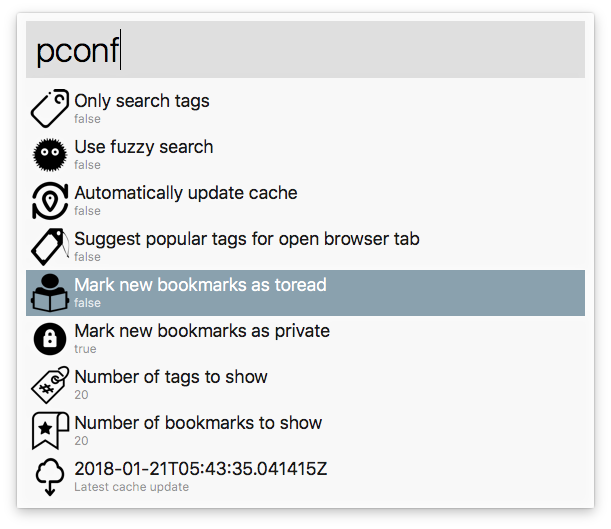
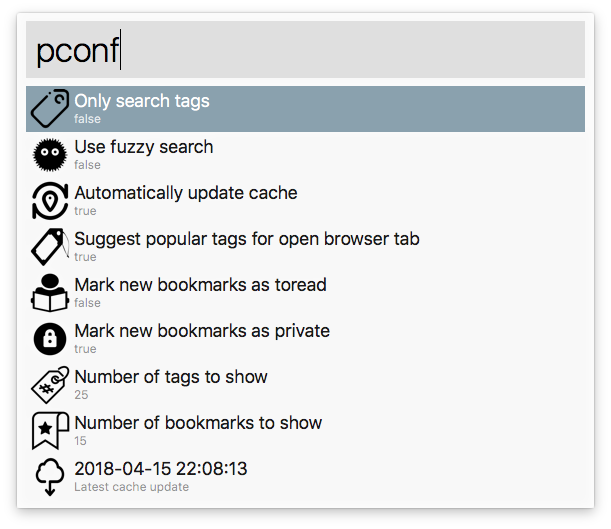
Update README.md

diff --git a/README.md b/README.md
@@ -43,11 +43,7 @@ Then invoke Alfred and enter your username:token after the ***"pa"*** keyword:
 
 ![image](./res/images/authentication.png)
 
-This workflow will keep a local cache of the tags and bookmarks that you have in Pinboard.
-
-To manually update the cache, you need to issue the ***`pu`*** command:
-
-![image](./res/images/update.png)
+This workflow will keep a local cache of the tags and bookmarks that you have in Pinboard, and, by default, automatically update the cache. (See [manual updates](#cache_update) )
 
 ---
 
@@ -92,7 +88,7 @@ Searching your bookmarks is easy.
 ps query1 query2 query3 ...
 ```
 
-Workflow will use the text you enter in Alfred and show list of bookmarks that contain **all** of the search keywords in any of the bookmarks information (Desrciption of bookmark, its tags and url and its extended notes, search fields can be adjusted, see [settings](#config).
+Workflow will use the text you enter in Alfred and show list of bookmarks that contain **all** of the search keywords in any of the bookmarks information (Desrciption of bookmark, its tags, its url and its extended notes). However, these search fields can be adjusted, see [settings](#config).
 
 So **the more** search keywords you enter **the less** results will be displayed as it tries to find the bookmarks that contain ***all*** of the keywords.
 
@@ -117,7 +113,7 @@ You can hold down modifiers to enable different behavior:
 pind
 ```
 
-To delete a bookmark, just make sure it is opened in your current broweser's window. Then use `pind`.
+To delete a bookmark, just make sure it is opened in your current browser's window. Then use `pind`.
 Proposed workflow for deleting a bookmark is to first open it in browser (search for it using this workflow's keyword `ps`, and hit enter) and then use `pind` keyword followed by enter.
 
 ![image](./res/images/delete-pin.png)
@@ -142,6 +138,14 @@ On top of using `pconf`, you can directly type following commands to also adjust
 - `pset auto`: After posting a new bookmark, automatically update the local cache.
 - `pset tags`: Set number of tags to show: `pset tags 25`
 - `pset bookmarks`: Set number of bookmarks to show: `pset bookmarks 12`
+
+### Manual cache update<a name="cache_update"></a>
+
+To manually update the cache, you need to issue the ***`pu`*** command:
+
+![image](./res/images/update.png)
+
+---
 
 Most of configuration settings are self-explanatory.
 
